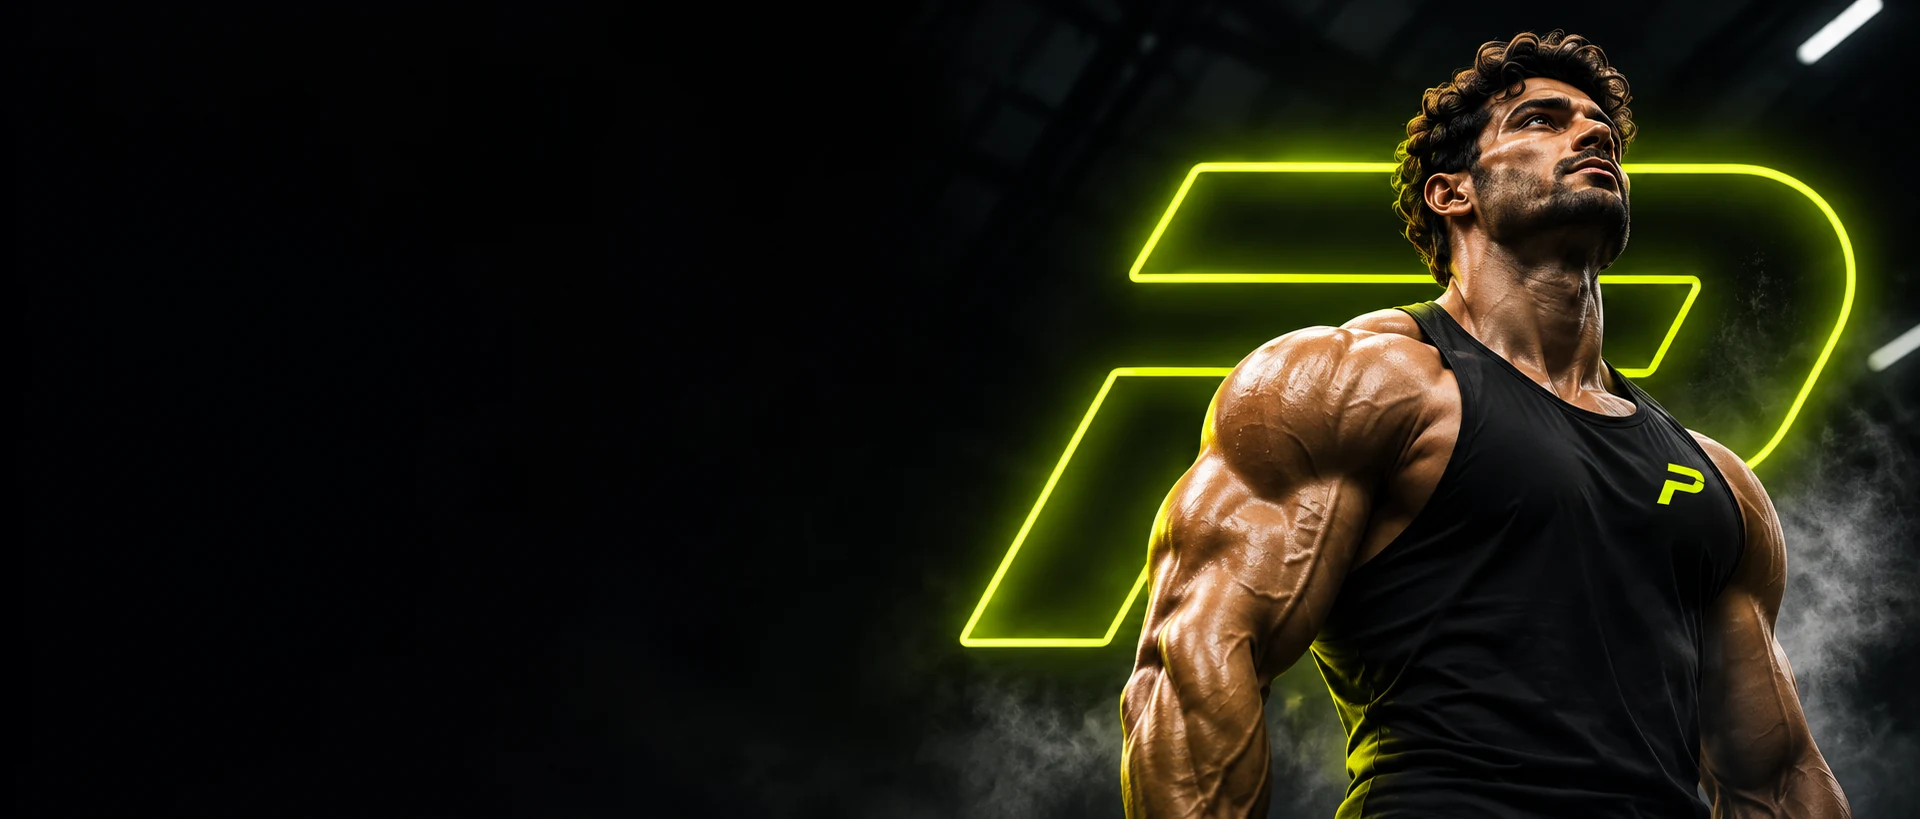
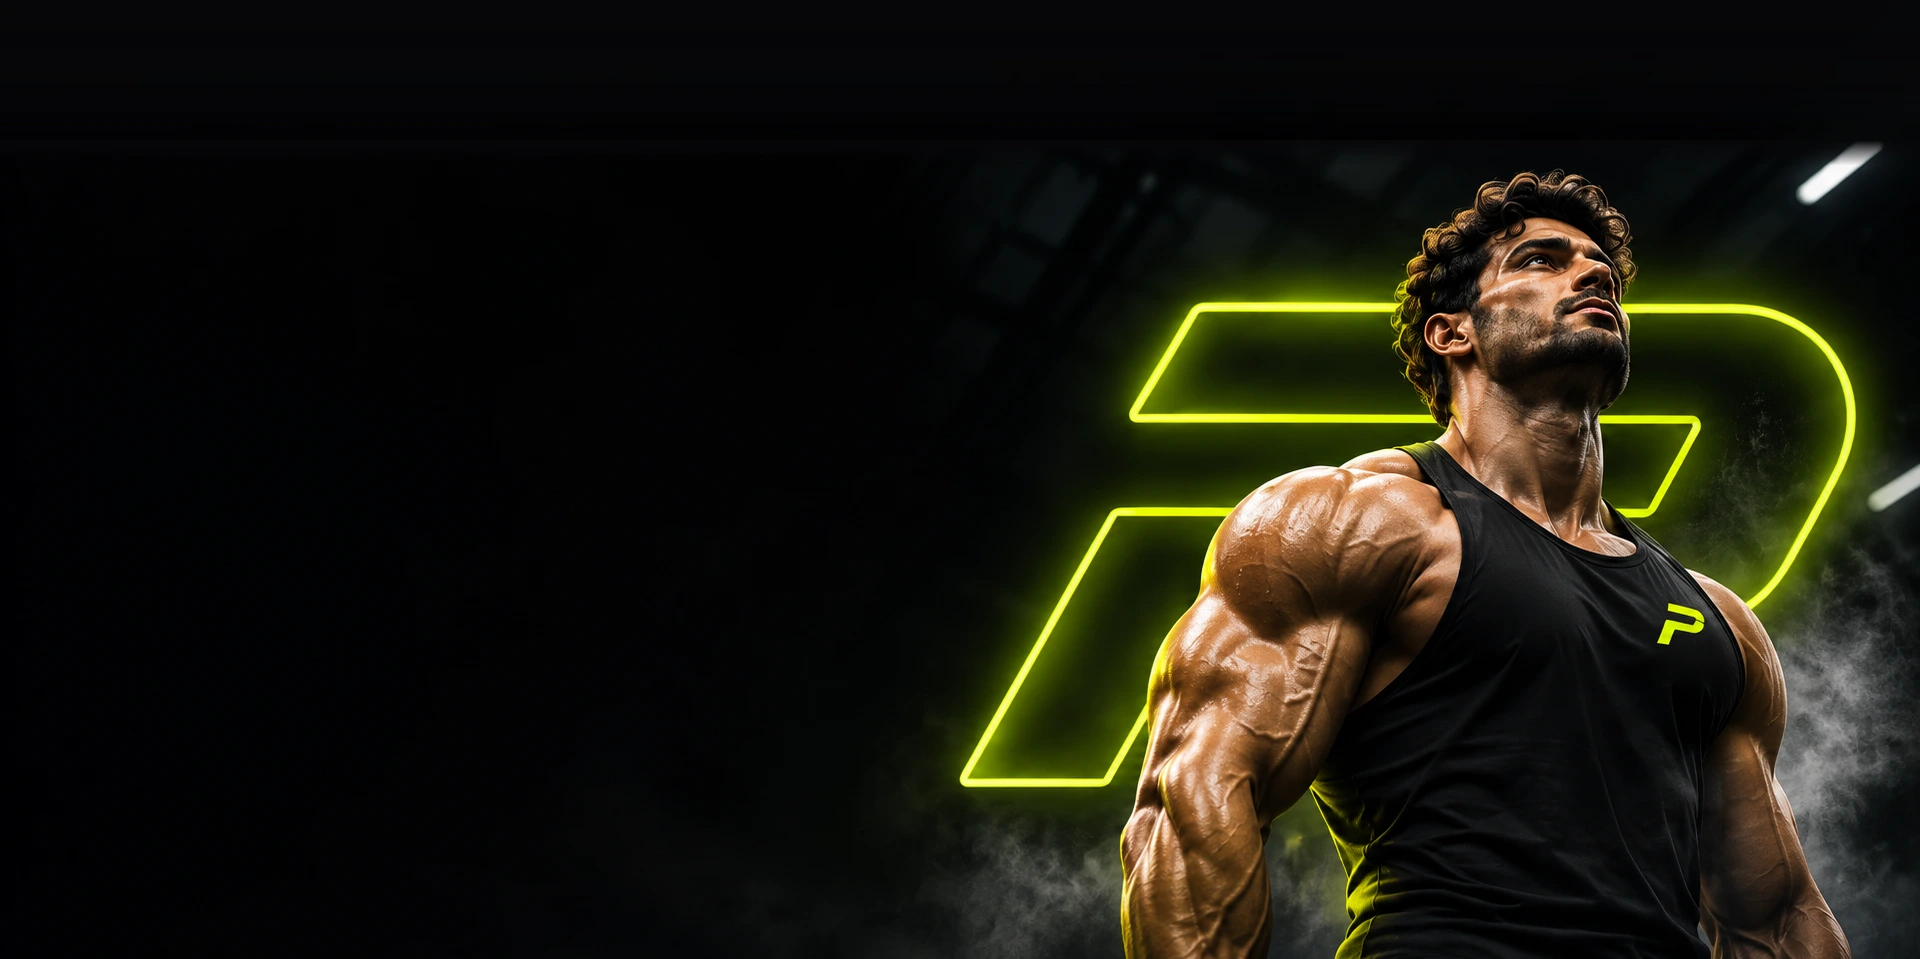
fix(hero): add top headroom to hero image in desktop and mobile views

Changed region(s): [[0.5, 0.0305, 1.0, 1.0], [0.9375, 0.0, 1.0, 0.0916]]

diff --git a/src/utils/cloudinary.ts b/src/utils/cloudinary.ts
@@ -41,7 +41,8 @@ const CLOUDINARY_CLOUD_NAME =
 const CLOUDINARY_FOLDER = 'peakform';
 
 const ASSET_VERSIONS: Partial<Record<AssetKey, string>> = {
-  heroMobile: 'v1794052830',
+  hero: 'v1794053968',
+  heroMobile: 'v1794053969',
   trainerNikita: 'v1794052886',
 };
 
